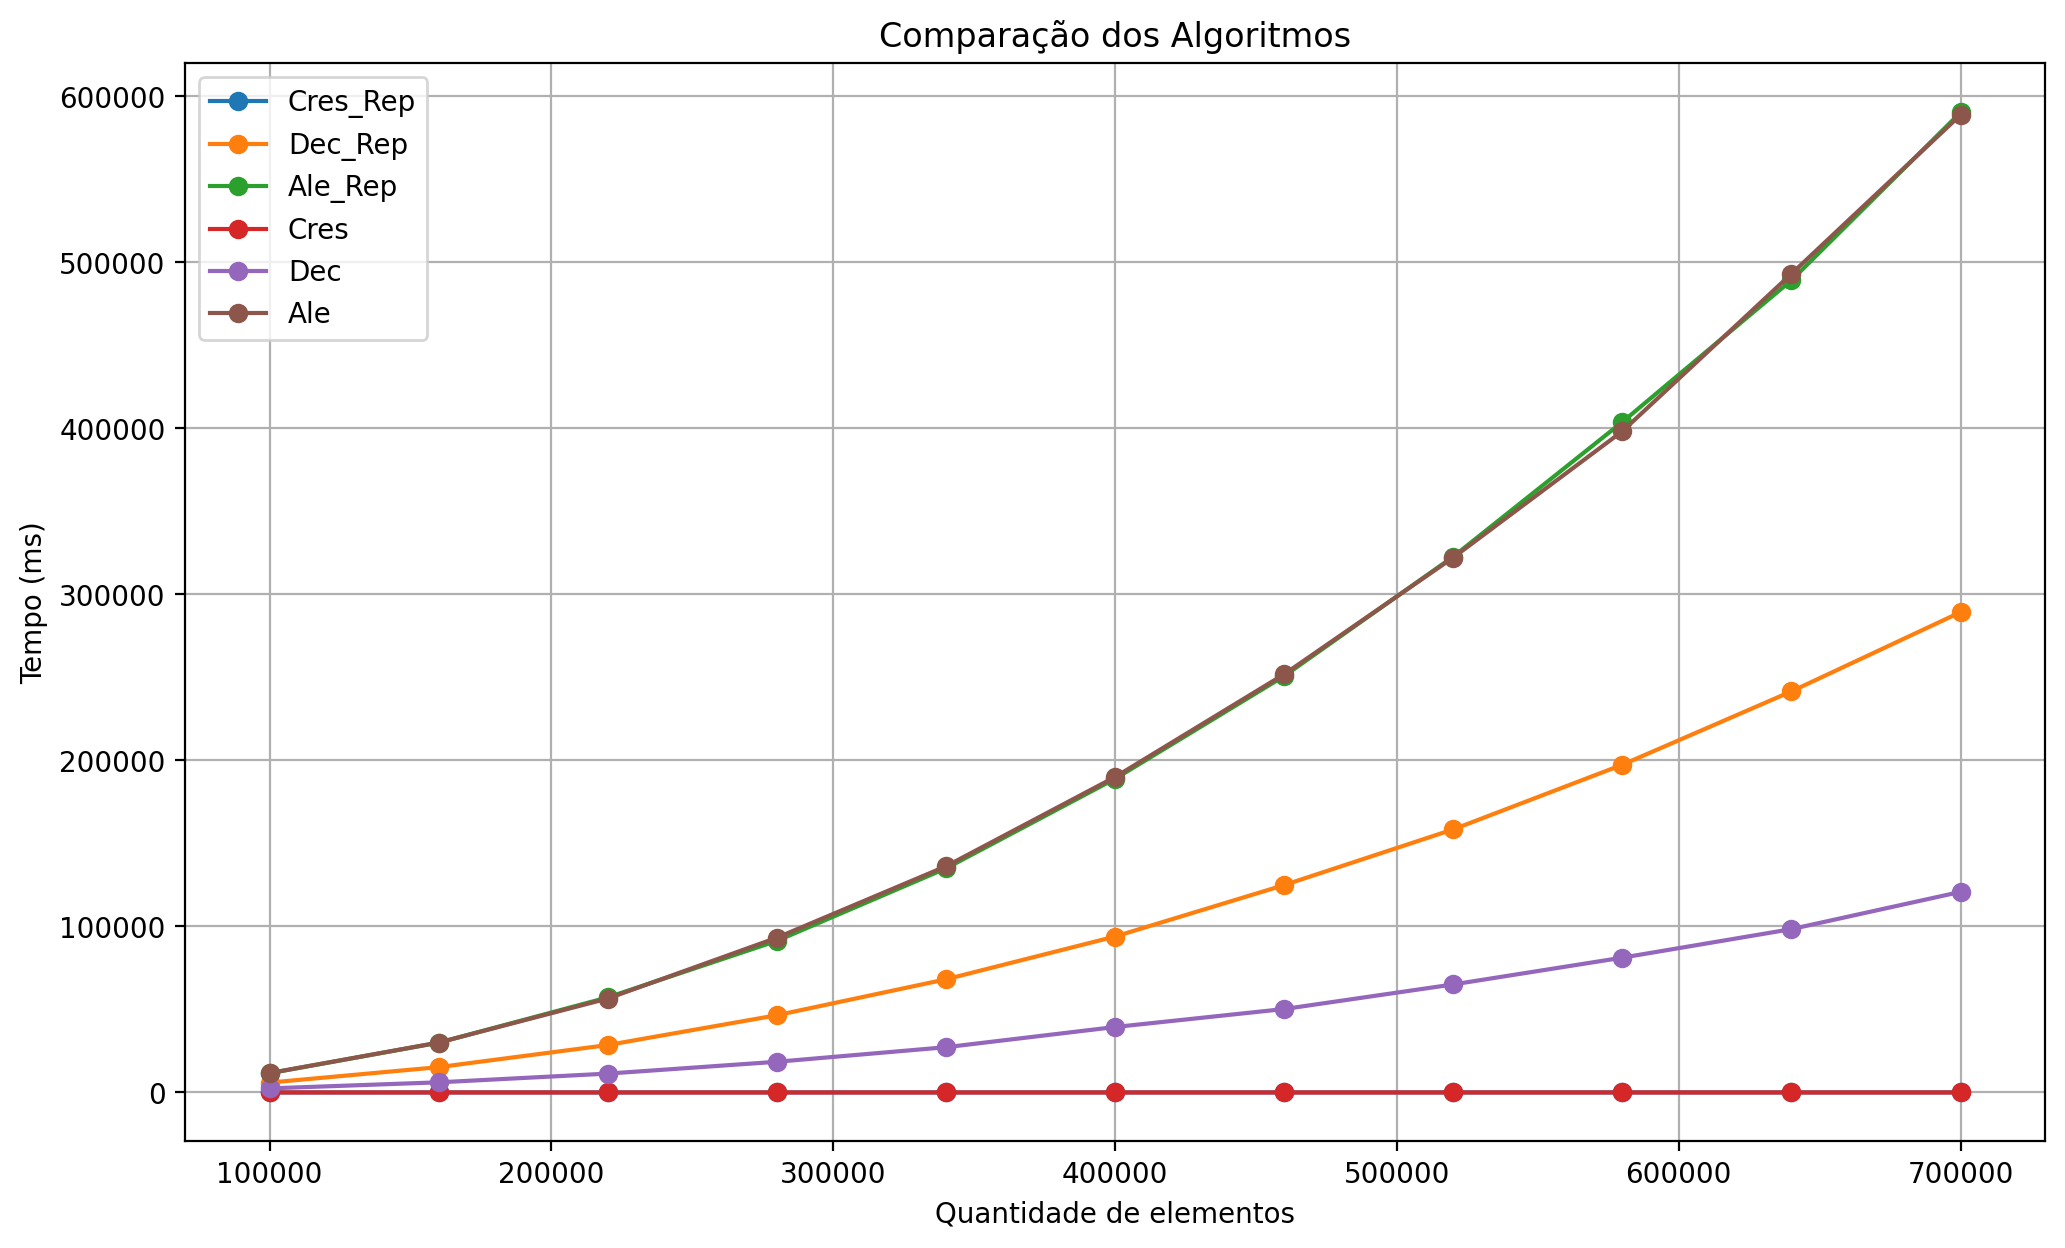
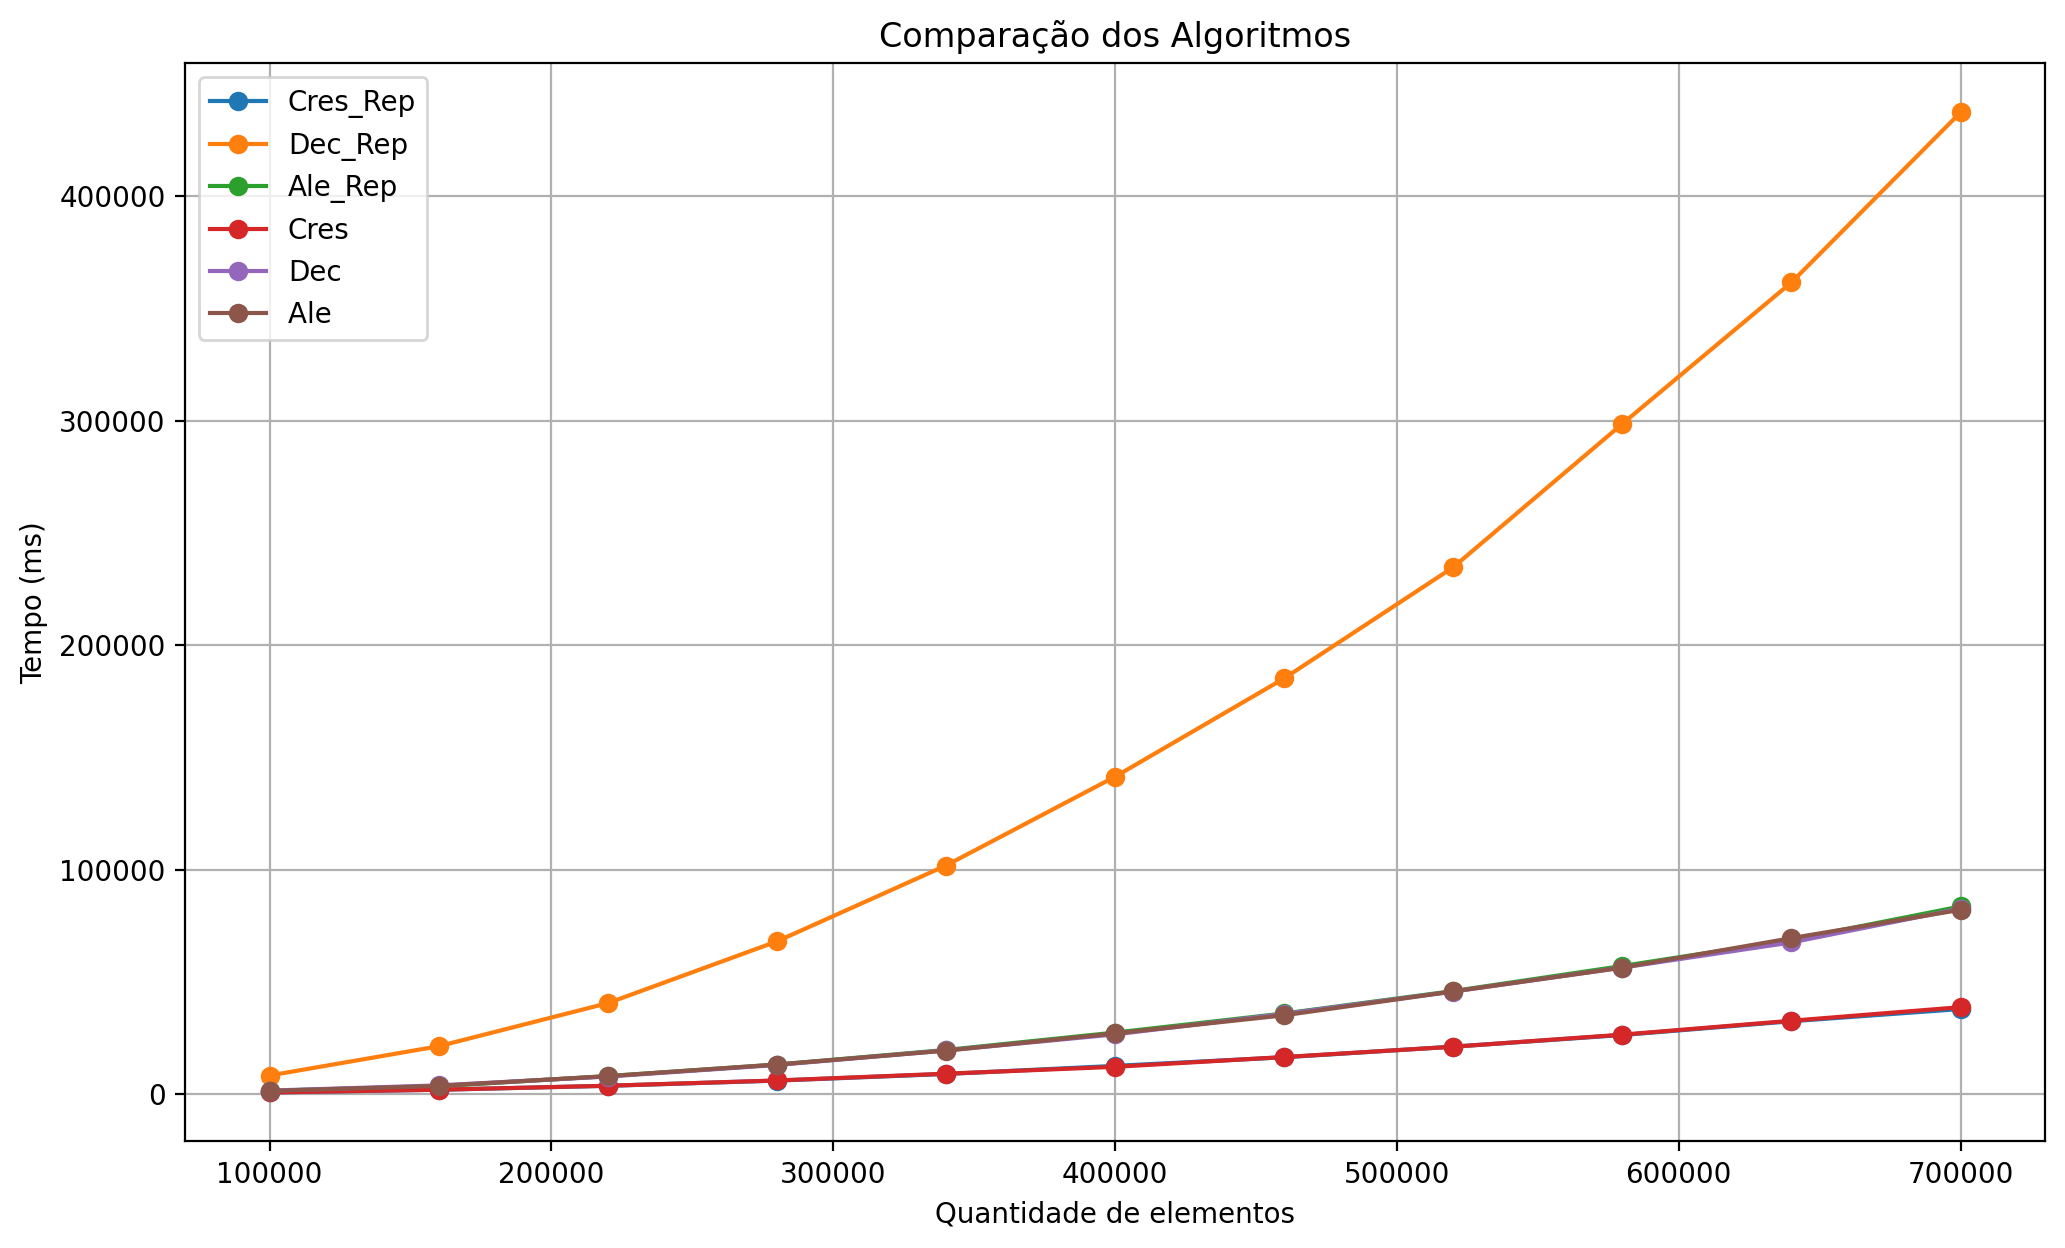
Adicionar novos gráficos de comparação e atualizar resultados nos scripts de plotagem

diff --git a/plot2.py b/plot2.py
@@ -5,12 +5,12 @@ quantidades = [100000, 160000, 220000, 280000, 340000,
                400000, 460000, 520000, 580000, 640000, 700000]
 
 # Resultados (seis listas diferentes)
-teste1 = [3, 2.67, 4, 4, 5, 4.67, 5, 5.33, 5.33, 7.33, 7]
-teste2 = [3364, 8446.33, 15825.67, 25856, 38723.67, 56675.67, 73222.67, 95292.67, 121156.33, 144801.33, 177415]
-teste3 = [1712.33, 4368, 7144.67, 13457.67, 19878.33, 28208.33, 32583.33, 47125, 58504.67, 72076.33, 75177.67]
-teste4 = [3, 3, 3.33, 4, 4.67, 4.33, 5, 6, 6.67, 6.67, 7]
-teste5 = [2450.67, 6095.67, 11349, 18477, 27249, 39417, 50247.67, 65064, 81184.33, 98374.67, 120811]
-teste6 = [11661.33, 30058.33, 56572.33, 93203.33, 136220.67, 189999.67, 251888.33, 322201.33, 398261, 493085.67, 588799.33]
+teste1 = [773, 1957.67, 3718.67, 6034.67, 8989.67, 12601, 16425.67, 21166, 26351, 32485.67, 37915.33]
+teste2 = [8314.67, 21351.33, 40540, 68047.33, 101844.67, 141419.33, 185215.33, 234717, 298606.33, 361587, 437308.33]
+teste3 = [1505.33, 3534.33, 8047.33, 13179.67, 19679, 27433.33, 35944.33, 45938.33, 57094, 68732.67, 83601.67]
+teste4 = [767, 1992.67, 3746.67, 6099.67, 9115.33, 12182, 16542.33, 21130, 26517, 32708, 38748.67]
+teste5 = [1582.67, 3904.33, 7858.33, 13003.67, 19477, 26630, 35744.67, 45723.67, 56393, 67600, 82656]
+teste6 = [1432.67, 3689, 8028.33, 13199.67, 19389, 27055, 35137.33, 45761.33, 56354.67, 69504, 82117]
 
 # Plot
 plt.figure(figsize=(12,7))

diff --git a/plot.py b/plot.py
@@ -3,12 +3,12 @@ import matplotlib.pyplot as plt
 quantidades = [100000, 160000, 220000, 280000, 340000, 400000,
                460000, 520000, 580000, 640000, 700000]
 
-resultados = [3, 3, 3.33, 4, 4.67, 4.33, 5, 6, 6.67, 6.67, 7]
+resultados = [8314.67, 21351.33, 40540, 68047.33, 101844.67, 141419.33, 185215.33, 234717, 298606.33, 361587, 437308.33]
 
 plt.figure(figsize=(10,6))
 plt.plot(quantidades, resultados, marker="o", linestyle="-")
 
-plt.title("Crescente Insertion")
+plt.title("Decrescente com Repetição Selection")
 plt.xlabel("Quantidade de elementos")
 plt.ylabel("Resultado (ms)")
 plt.grid(True)
